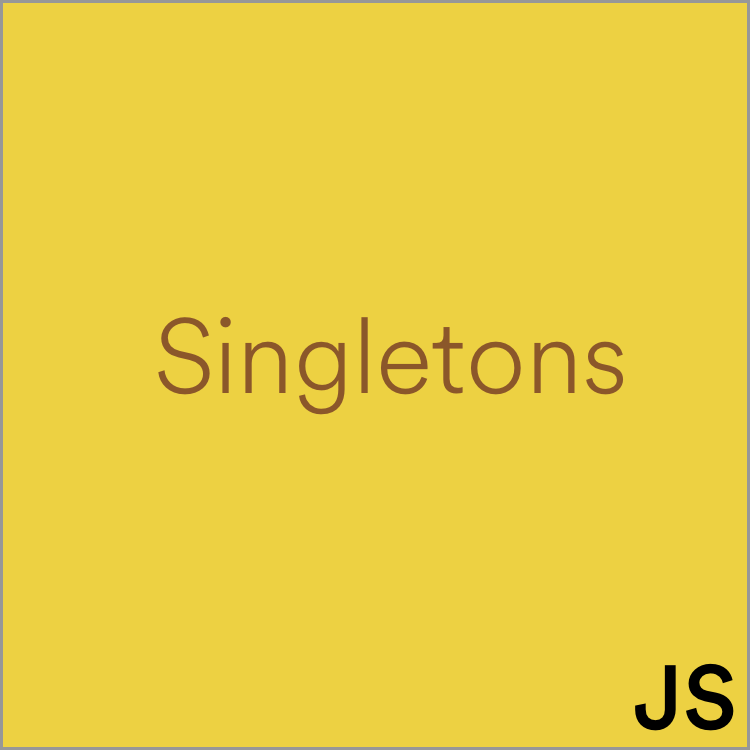
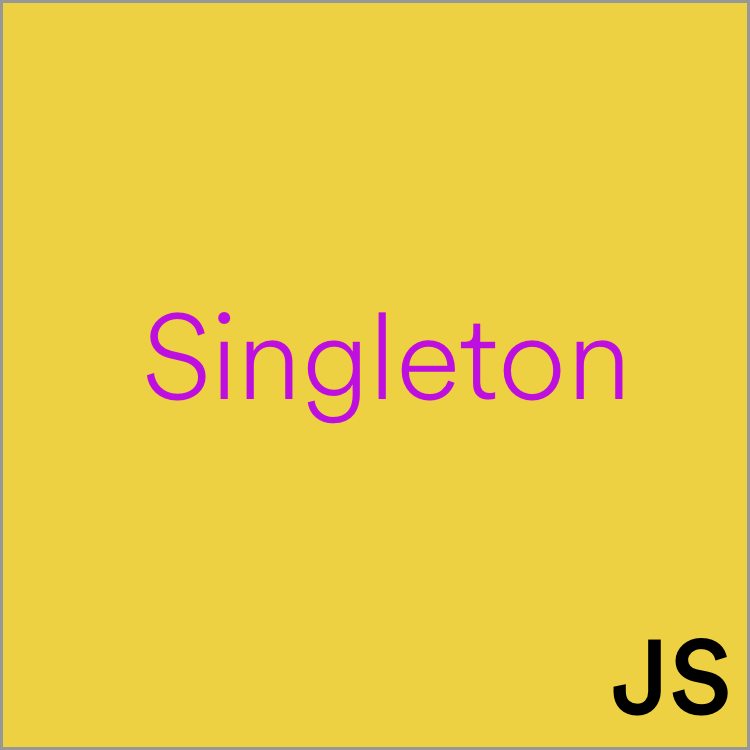
added singleton article

Changed region(s): [[0.184, 0.3987, 0.828, 0.5827], [0.7973, 0.828, 0.9813, 0.9813]]

diff --git a/views/article-views/singleton-in-javascript.htm b/views/article-views/singleton-in-javascript.htm
@@ -1,0 +1,59 @@
+<div class="article-wrapper">
+    <div class="article-heading">Singletons in Javascript</div>
+    <div class="sub-heading">Introduction</div>
+    <div class="content m-b-5">
+            Singleton is one of the simplest design pattern, which allows only single instance of the class / object to be created.
+    </div>
+    <div class="highlighter-heading">Examples:</div>
+    <div class="content">   
+        1. In AngularJS, will create a single instance of a service / factory methods to make API calls.
+    </div>
+    <div class="content m-b-10">
+     2. In NodeJS, when try to do multiple Database operations in the same script will create a single instance for that Database to accomplish all the operations.
+    </div>
+    <div class="sub-heading">Definition</div>
+    <div class="content m-b-10">A Singleton is an object which can only be instantiated one time. Repeated calls to its constructor return the same instance and in this way one can ensure that they don't accidentally create, say, two Users in a single User application. </div>
+    <div class="sub-heading">Singleton in Javascript</div>
+    <div class="code-snippet">
+            <textarea disabled="true" class="code-wrapper" rows="38">
+
+    var User = (function(){             // Self Invoking function
+            
+            var instance;
+
+            function createUser(){
+                var user = new Object({firstName: 'John', age: 25});
+                return user;
+            }
+
+            var editUser = function (newName){
+                instance.firstName = newName;
+                return instance;
+            }
+
+            return {
+                getUser : function(){
+                            if(!instance){
+                                instance = createUser(); 
+                            }
+                            return instance;
+                },
+                editUser: editUser
+            };
+    })();
+
+    var user1 = User.getUser();
+    var user2 = User.getUser();
+
+    document.write(user1 === user2); // True; Because Both the object instance are same.
+    document.write(user1.firstName+"\n"); // John
+    document.write(user2.firstName); // John
+
+    User.editUser('Mark');              // Edit the User object property
+
+    document.write(user1.firstName+"\n"); // Mark
+    document.write(user2.firstName);    // Mark
+            </textarea>
+    </div>
+    <div class="m-b-20">Thanks for reading this!!!</div>
+</div>

diff --git a/scripts/articles.js b/scripts/articles.js
@@ -1,7 +1,7 @@
 var articles = [{
         id: 1,
         title: 'AngularJS v1.x basics',
-        linkTitle:'AngularJS-v1.x-basics',
+        linkTitle:'angularJS-v1.x-basics',
         banner_img: './images/angularjs_logo.png',
         desc: 'Basics of Angular v1.x has been clearly explained in this article'
     },{
@@ -12,10 +12,10 @@ var articles = [{
         desc:'How to setup webpack 4 for your projects and make that one as development server.'
     },{
         id: 3,
-        title:'Singletons in Javascript',
-        linkTitle:'Redux-basic-course',
+        title:'Singleton in Javascript',
+        linkTitle:'singleton-in-javascript',
         banner_img: './images/Singletons.png',
-        desc:'Understand the singletons pattern in Javascript'
+        desc:'Understand the singleton pattern in Javascript'
     }
 ];
 

diff --git a/styles/article-view.scss b/styles/article-view.scss
@@ -31,7 +31,7 @@
         overflow:hidden;
         font-family: 'Monaco';
         font-size: 13px;
-        color: purple;
+        color: blueviolet;
     }
     .output-wrapper{
         background-color: floralwhite;
